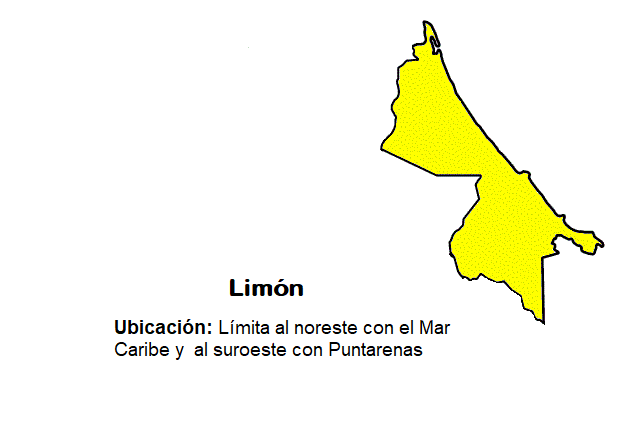
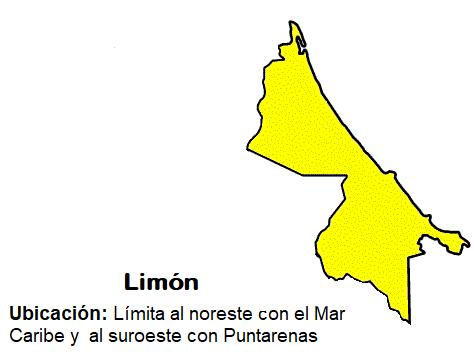
Mapa listo

Changed region(s): [[0.1772, 0.0311, 1.0, 0.9322], [0.0, 0.839, 0.7384, 0.9944], [0.3544, 0.6215, 0.5021, 0.6836]]

diff --git a/SurfTribeSystem1.0/ccss/star-1-3/Static HTML/css/style.css b/SurfTribeSystem1.0/ccss/star-1-3/Static HTML/css/style.css
@@ -123,6 +123,12 @@ div.de2 {
     width: 23%;
 }
 
+div.de3 {
+    margin-right: 20px;
+    margin-left: -50px;
+    margin-top: 30px;
+}
+
 th.prueba {
     text-align: center;
 }
@@ -156,7 +162,8 @@ li .link u {
     opacity: 0;
     left: 50%;
     bottom: 0%;
-    margin: 0px 0px -330px -650px;
+    margin: 0px 0px -290px -750px;
+    margin: 0px 0px -290px -750pxde;
     width: 392px;
     height: 286px;
     background: url('../img/puntarenas con titulo.png') no-repeat center center;
@@ -169,11 +176,10 @@ li .link s {
     opacity: 0;
     left: 50%;
     bottom: 0%;
-    margin: 0px 0px -340px -750px;
-    width: 382px;
+    margin: 0px 0px -309px -788px;
+    width: 408px;
     height: 286px;
     background: url('../img/Limon con titulo.png') no-repeat center center;
-  
     background-size: cover;
 }
 
@@ -205,6 +211,96 @@ li:hover .link img {
     transform: rotate(0deg) xscale(1.03);
    
 }
+
+
+
+
+a.hjk {
+    float: left;
+    background-image: url(../img/logo.png);
+    background-position: 15px 19px;
+    background-repeat: no-repeat;
+    background-size: cover;
+    background-image: url(../img/logo.png);
+    background-position: 480px 19px;
+    background-repeat: no-repeat;
+    background-size: cover;
+    width: 835px;
+    height: 95px;
+    background-color: transparent;
+    padding: 24px 15px 24px 15px;
+    background-size: 203px 54px !important;
+}
+
+
+
+
+
+
+.steps-form-2 {
+    display: table;
+    width: 100%;
+    position: relative;
+}
+
+    .steps-form-2 .steps-row-2 {
+        display: table-row;
+    }
+
+        .steps-form-2 .steps-row-2:before {
+            top: 14px;
+            bottom: 0;
+            position: absolute;
+            content: " ";
+            width: 85%;
+            margin: 0px 0px 190px 60px;
+            height: 2px;
+            background-color: #7283a7;
+        }
+
+        .steps-form-2 .steps-row-2 .steps-step-2 {
+            display: table-cell;
+            text-align: center;
+            position: relative;
+        }
+
+            .steps-form-2 .steps-row-2 .steps-step-2 p {
+                margin-top: 0.5rem;
+            }
+
+            .steps-form-2 .steps-row-2 .steps-step-2 button[disabled] {
+                opacity: 1 !important;
+                filter: alpha(opacity=100) !important;
+            }
+
+            .steps-form-2 .steps-row-2 .steps-step-2 .btn-circle-2 {
+                width: 70px;
+                height: 70px;
+                border: 2px solid #59698D;
+                background-color: white !important;
+                color: #59698D !important;
+                border-radius: 50%;
+                padding: 22px 18px 15px 18px;
+                margin-top: -22px;
+            }
+
+                
+
+                .steps-form-2 .steps-row-2 .steps-step-2 .btn-circle-2 .fa {
+                    font-size: 1.7rem;
+                }
+
+
+
+
+
+
+
+
+
+
+
+
 
 
 
@@ -306,9 +402,10 @@ h4 {
 }
 
 @media (min-width: 1200px) {
-  .container {
-    width: 1170px;
-  }
+    .container {
+        width: 1170px;
+        /*zoom:95%;Prueba*/
+    }
 }
 
 body.bodyColor.wrapper {
@@ -3738,7 +3835,7 @@ header {
   width: 100%;
   display: block;
   background-color: #262a2e;
-  padding: 80px 0;
+  padding: 0px 0;
 }
 
 .foo .footer-logo {
@@ -5382,7 +5479,7 @@ header {
   width: 100%;
   display: block;
   background-color: #262a2e;
-  padding: 80px 0;
+  padding: 0px 0;
 }
 
 .foo .footer-logo {
